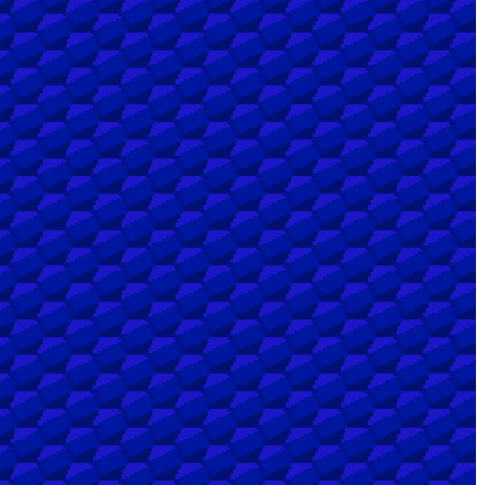
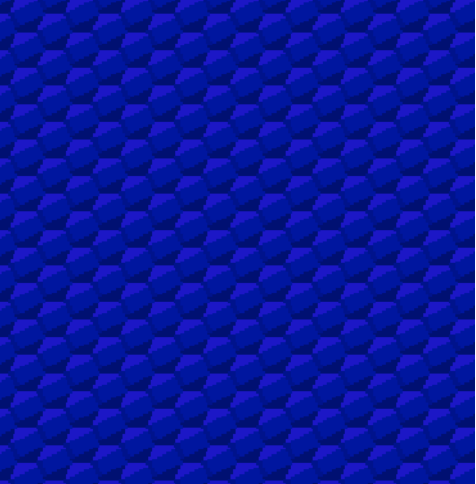
break

diff --git a/js/brick.js b/js/brick.js
@@ -1,33 +1,32 @@
-class BrickWall{
-    constructor(ctx){
-        /*this.brickRowCount = 3;
-        this.brickColumnCount = 5;
-        this.brickWidth = 75;
-        this.brickHeight = 20;
-        this.brickPadding = 10;
-        this.brickOffsetTop = 30;
-        this.brickOffsetLeft = 30;
+class Brick {
+    constructor(ctx, x, y) {
+      this.ctx = ctx;
+      this.x = x;
+      this.y = y;
+      this.h = 20;
+      this.w = 50;
+      this.type = "brick";
+      this.images = ["/resources/blue.png", "/resources/red.png", "/resources/yellow.png", "/resources/green.png", "/resources/gray.png", "/resources/light_blue.png", "/resources/orange.png", "/resources/pink.png"];
+      this.active = true;
+      this.image = new Image();
+      this.image.src = this.images[this.randomImage()];
     }
-    drawBrick(){
-        for(c=0; c<brickColumnCount; c++) {
-            for(r=0; r<brickRowCount; r++) {
-                var brickX = (c*(brickWidth+brickPadding))+brickOffsetLeft;
-                var brickY = (r*(brickHeight+brickPadding))+brickOffsetTop;
-                bricks[c][r].x = brickX;
-                bricks[c][r].y = brickY;
-                ctx.beginPath();
-                ctx.rect(brickX, brickY, brickWidth, brickHeight);
-                ctx.fillStyle = "red";
-                ctx.fill();
-                ctx.closePath();
-            }
-        }*/
+  
+    randomImage() {
+      return Math.floor(Math.random() * this.images.length);
     }
-    clear(){
-        
+  
+    draw() {
+        if (DEBUG){
+            this.ctx.strokeStyle = "red"
+            this.ctx.strokeRect(this.x, this.y, this.w, this.h)
+          }
+      if (this.active) {
+        this.ctx.drawImage(this.image, this.x, this.y, this.w, this.h);
+      }
     }
-
-    
-    
-    
+  
+    destroy() {
+      this.active = false;
     }
+  }

diff --git a/js/ball.js b/js/ball.js
@@ -1,25 +1,35 @@
 class Ball {
-  constructor(ctx) {
+  constructor(ctx, x, y) {
     this.ctx = ctx;
-    this.ballRadius = 10;
+    this.ballRadius = 30;
     this.x = this.ctx.canvas.width / 2;
-    this.y = this.ctx.canvas.height - 30;
-    this.vx = 1;
-    this.vy = 1;
+    this.y = this.ctx.canvas.height - 40;
+    this.h = this.ballRadius
+    this.w = this.ballRadius
+    this.vx = 3;
+    this.vy = 3;
+    this.image = new Image();
+    this.image.src = '/resources/ball.png';
   }
-  draw() {
-    this.ctx.beginPath();
-    this.ctx.arc(this.x, this.y, this.ballRadius, 0, Math.PI * 2);
-    this.ctx.fillStyle = "#0095DD";
-    this.ctx.fill();
-    this.ctx.closePath();
-  }
+
+    draw() {
+      this.ctx.save();
+      if (DEBUG){
+        this.ctx.strokeStyle = "red"
+        this.ctx.strokeRect(this.x, this.y, this.w, this.h)
+      }
+      
+      this.ctx.drawImage(this.image, this.x, this.y, this.w, this.h);
+      this.ctx.restore();
+    }
+  
+
   move() {
     this.x += this.vx;
     this.y += this.vy;
     if (this.y - this.ballRadius <= 0) {
       this.vy *= -1;
-      this.y = 0+this.ballRadius;
+      this.y = 0 + this.ballRadius;
     }
     if (this.y + this.ballRadius >= this.ctx.canvas.height) {
       this.vy *= -1;
@@ -27,11 +37,21 @@ class Ball {
     }
     if (this.x - this.ballRadius <= 0) {
       this.vx *= -1;
-      this.x = 0+this.ballRadius;
+      this.x = 0 + this.ballRadius;
     }
     if (this.x + this.ballRadius >= this.ctx.canvas.width) {
       this.vx *= -1;
       this.x = this.ctx.canvas.width - this.ballRadius;
     }
+  }
+
+  collidesWith(element) {
+   
+      return (
+        this.x < element.x + element.w &&
+        this.x + this.w > element.x &&
+        this.y < element.y + element.h &&
+        this.h + this.y > element.y
+      )
   }
 }

diff --git a/js/game.js b/js/game.js
@@ -2,7 +2,8 @@ class Game {
   constructor(ctx) {
     this.ctx = ctx;
     this.interval = null;
-    this.brick = new BrickWall(ctx);
+    this.brick = new Brick(ctx);
+    this.brickWall = new BrickWall(ctx);
     this.paddle = new Paddle(ctx);
     this.ball = new Ball(ctx);
     this.background = new Background(ctx);
@@ -14,35 +15,62 @@ class Game {
 
     this.interval = setInterval(() => {
       this.clear();
+      this.win();
       this.draw();
-      this.collisions();
+      this.checkCollisions();
       this.move();
     }, 1000 / 60);
   }
+
   initListeners() {
     document.onkeydown = (e) => {
       this.paddle.onKeyDown(e.keyCode);
     };
     document.onkeyup = (e) => {
-      this.paddle.onKeyUp(e.keyCode)
-    }
+      this.paddle.onKeyUp(e.keyCode);
+    };
   }
-  stop() {}
-  gameOver() {}
+
+  stop() {
+    clearInterval(this.interval);
+  }
+
+  gameOver() {
+    this.stop();
+  }
+
   clear() {
     this.ctx.clearRect(0, 0, this.ctx.canvas.width, this.ctx.canvas.height);
   }
+
   draw() {
     this.background.draw();
-    //this.brick.drawBrick()
+    this.brickWall.draw();
     this.paddle.draw();
     this.ball.draw();
-    
   }
-  
+
   move() {
     this.paddle.move();
     this.ball.move();
   }
-  collisions() {}
+
+  checkCollisions() {
+    if (this.ball.collidesWith(this.paddle)) {
+      this.ball.vy *= -1;
+    }
+    for (const brick of this.brickWall.bricks) {
+      if (brick.active && this.ball.collidesWith(brick)) {
+        this.ball.vy *= -1;
+        brick.destroy();
+      }
+    }
+  }
+
+  win() {
+    if (this.brickWall.bricks.every((brick) => !brick.active)) {
+      alert("Felicidades has ganado");
+      this.stop();
+    }
+  }
 }

diff --git a/js/paddle.js b/js/paddle.js
@@ -1,18 +1,26 @@
 class Paddle {
   constructor(ctx) {
     this.ctx = ctx;
-    this.h = 10;
-    this.w = 75;
+    this.h = 15;
+    this.w = 80;
+    this.y = this.ctx.canvas.height - (this.h + 20);
     this.x = (this.ctx.canvas.width - this.w) / 2;
     this.vx = 0;
+    this.type = "paddle";
+    this.image = new Image();
+    this.image.src = '/resources/paddle.png';
   }
+
   draw() {
-    this.ctx.beginPath();
-    this.ctx.rect(this.x, this.ctx.canvas.height - this.h, this.w, this.h);
-    this.ctx.fillStyle = "#0095DD";
-    this.ctx.fill();
-    this.ctx.closePath();
+    this.ctx.save();
+    if (DEBUG){
+      this.ctx.strokeStyle = "red"
+      this.ctx.strokeRect(this.x, this.y, this.w, this.h)
+    }
+    this.ctx.drawImage(this.image, this.x, this.y, this.w, this.h);
+    this.ctx.restore();
   }
+  
   move() {
     this.x += this.vx;
     if (this.x <= 0) {

diff --git a/js/brickwall.js b/js/brickwall.js
@@ -1,0 +1,30 @@
+class BrickWall {
+    constructor(ctx) {
+      this.ctx = ctx;
+      this.bricks = [];
+      this.rows = BW_ROWS;
+      this.cols = 9;
+      this.brickWidth = 50;
+      this.brickHeight = 20;
+      this.brickPadding = 10;
+      this.brickOffsetTop = 30;
+      this.brickOffsetLeft = 30;
+      this.initBricks();
+    }
+  
+    initBricks() {
+      for (let i = 0; i < this.rows; i++) {
+        for (let j = 0; j < this.cols; j++) {
+          const x = (j * (this.brickWidth + this.brickPadding)) + this.brickOffsetLeft;
+          const y = (i * (this.brickHeight + this.brickPadding)) + this.brickOffsetTop;
+          this.bricks.push(new Brick(this.ctx, x, y));
+        }
+      }
+    }
+  
+    draw() {
+      for (const brick of this.bricks) {
+        brick.draw();
+      }
+    }
+  }

diff --git a/js/background.js b/js/background.js
@@ -6,10 +6,18 @@ class Background {
     this.x = 0;
     this.y = 0;
     this.background = new Image();
-    this.background.src = "../resources/background1.webp";
+    this.background.src = "/resources/background.png";
+    this.background.onload = () => {
+      this.backgroundPattern = this.ctx.createPattern(this.background, 'repeat');
+    }
   }
+
   draw() {
-    this.ctx.drawImage(this.background, this.x, this.y, this.w, this.h);
-    this.ctx.drawImage(this.background, this.x + this.w, this.y, this.w, this.h);
+    
+    this.ctx.save();
+    this.ctx.fillStyle = this.backgroundPattern;
+    this.ctx.fillRect(this.x, this.y, this.w, this.h);
+    this.ctx.restore();
+    
   }
 }

diff --git a/index.html b/index.html
@@ -21,6 +21,7 @@
     <script src="/js/background.js"></script>
     <script src="/js/paddle.js"></script>
     <script src="/js/brick.js"></script>
+    <script src="/js/brickwall.js"></script>
     <script src="/js/ball.js"></script>
     <script src="/js/game.js"></script>
     <script src="/js/script.js"></script>

diff --git a/js/constants.js b/js/constants.js
@@ -1,3 +1,5 @@
 RIGHT="39"
 LEFT="37"
 //SPACE="32"
+const BW_ROWS = 5;
+const DEBUG = true      
